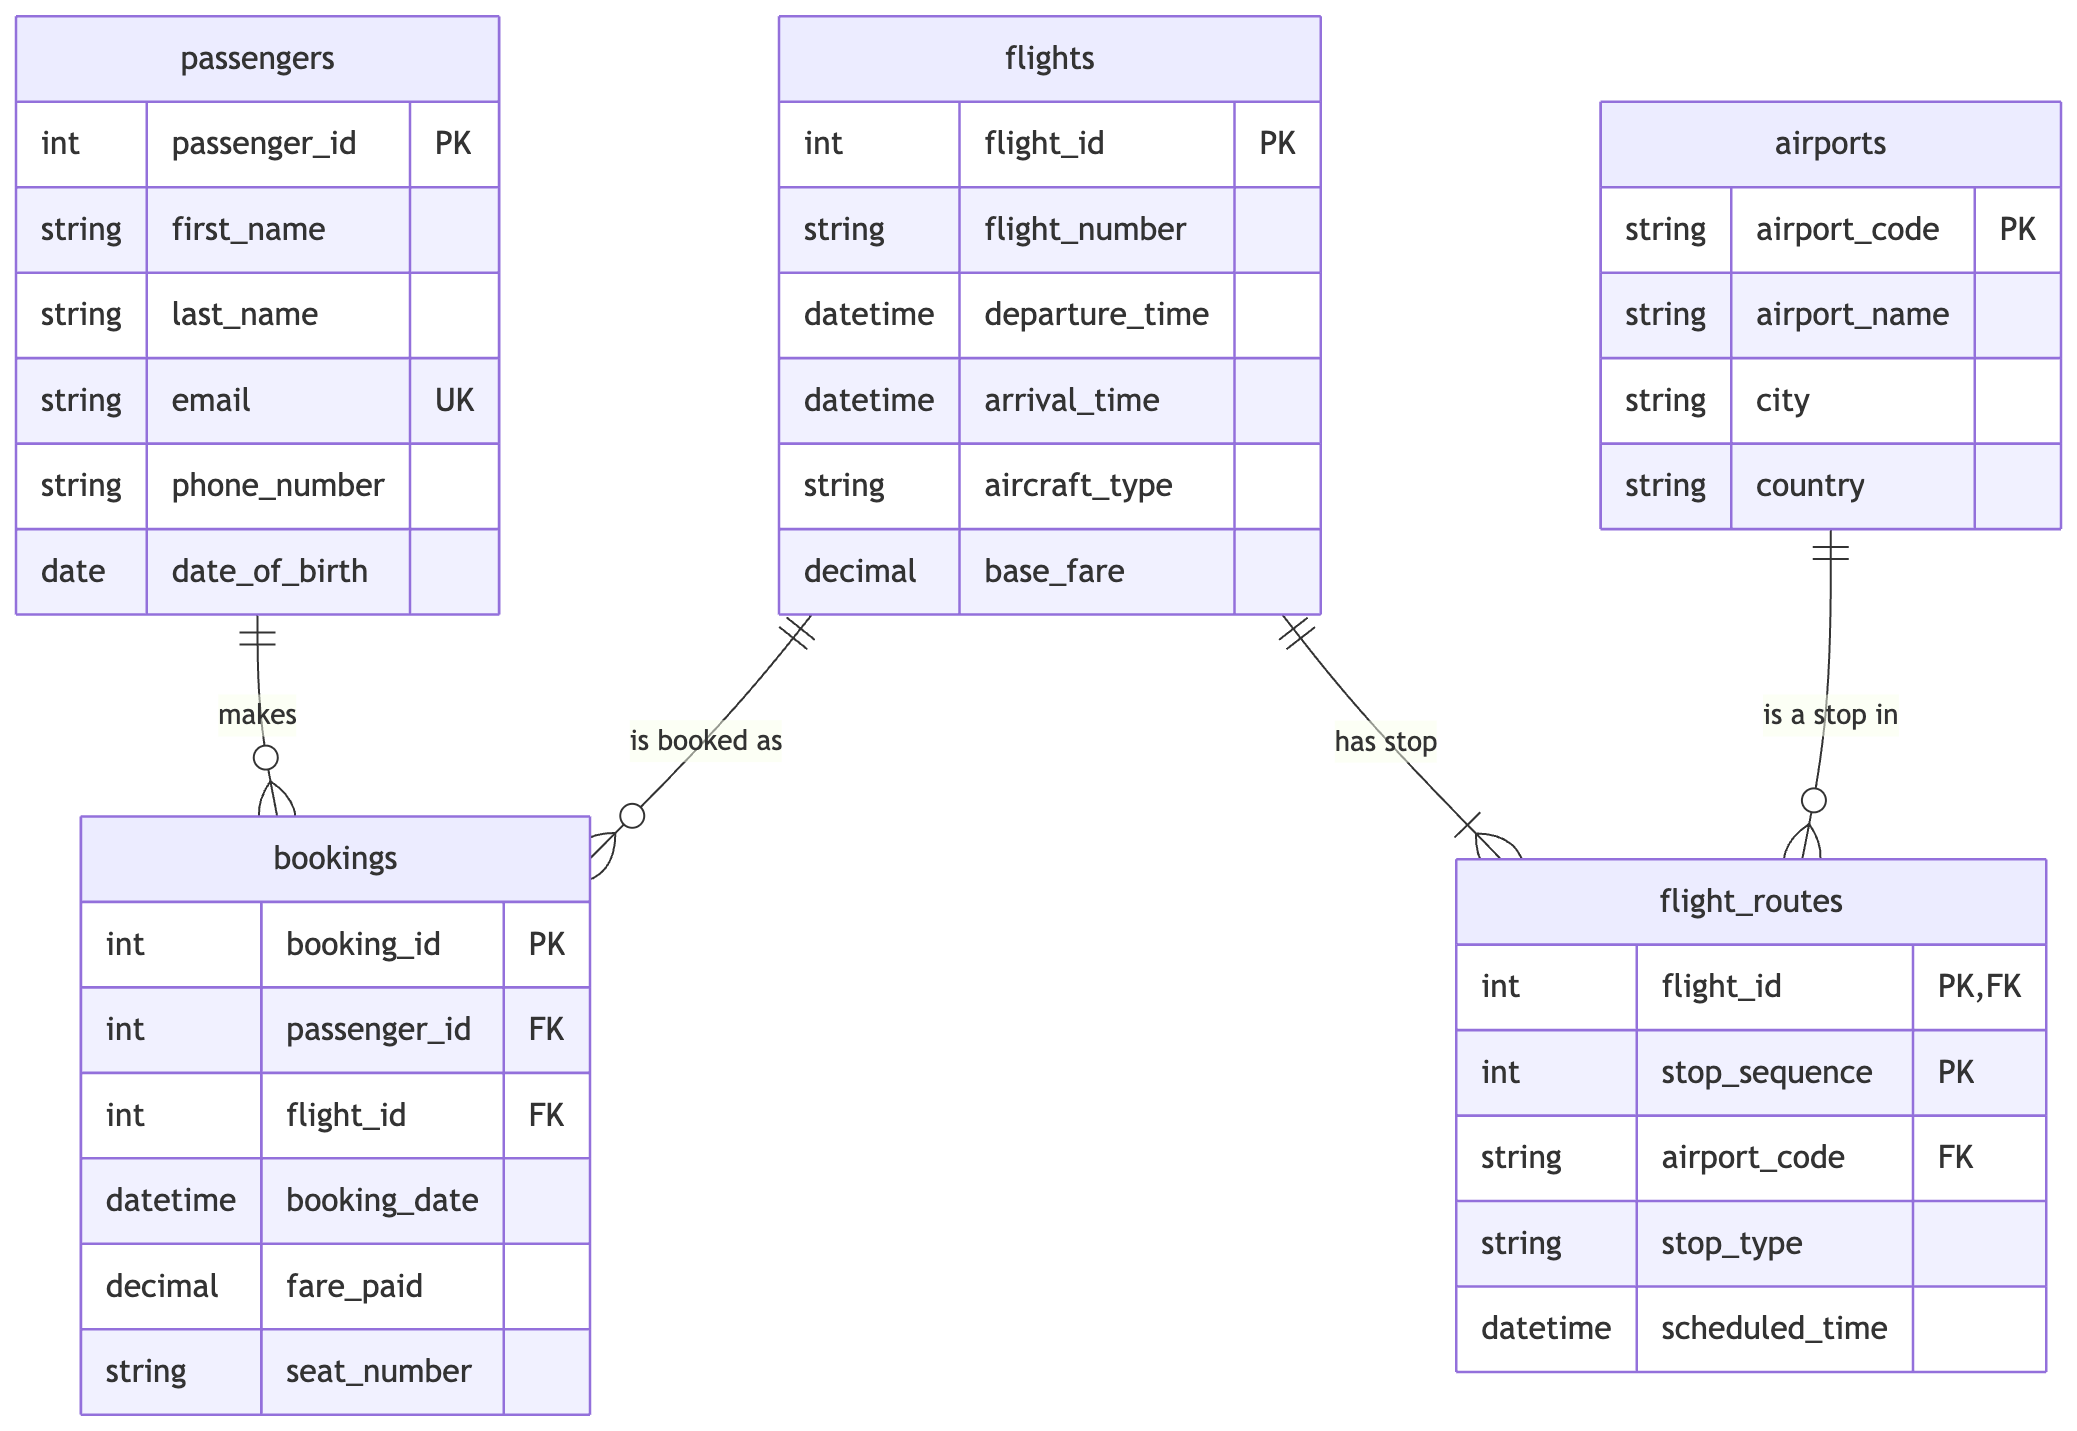
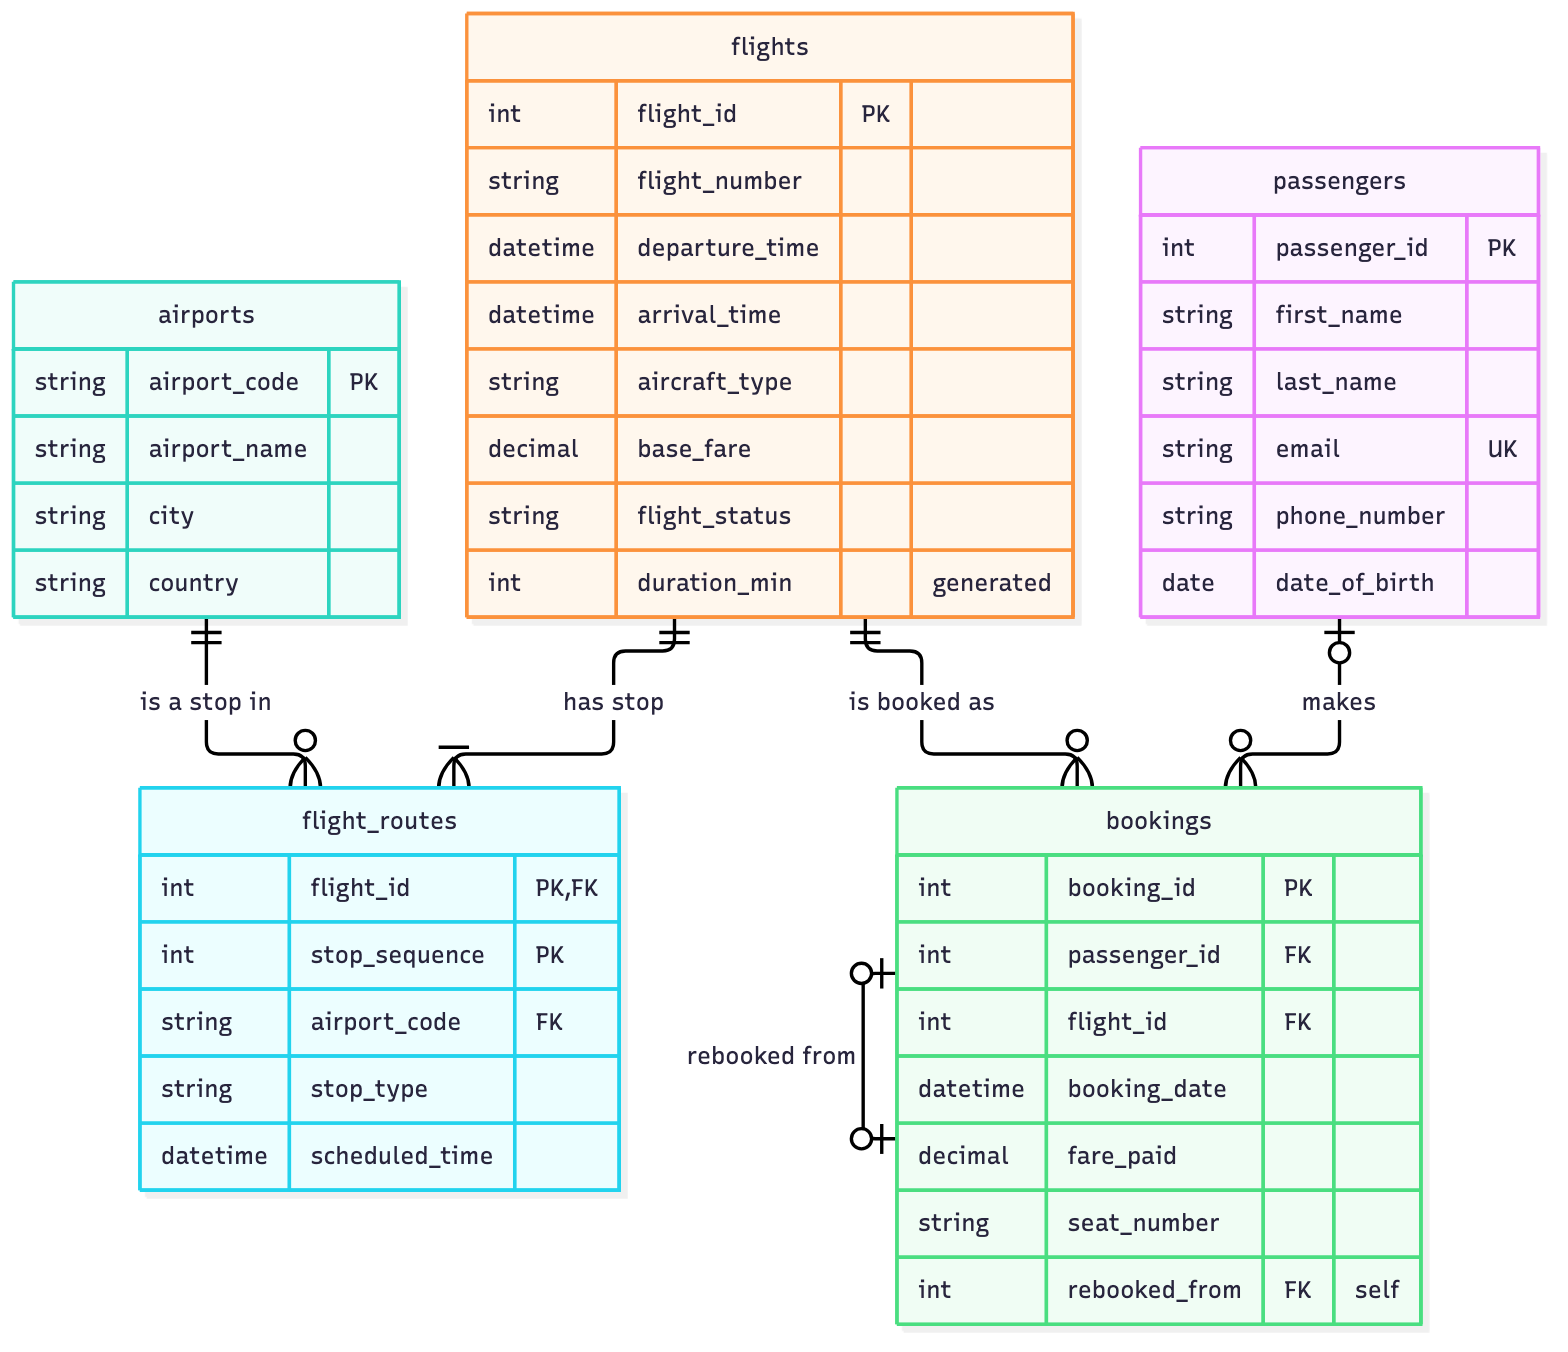
Unit 2: DDL schema, constraint analysis, updated ERD, screenshots
- schema/schema.sql: full PostgreSQL DDL with reset block, named constraints,
  recursive FK (bookings.rebooked_from) and composite PK on flight_routes
- analysis/unit2.md: FK/ON DELETE table and CHECK constraint narrative
- schema/erd.mmd + erd.png: ERD source and updated diagram
- README: Schema section and run instructions

diff --git a/analysis/unit2.md b/analysis/unit2.md
@@ -1,0 +1,66 @@
+# Unit 2 Analysis — From ERD to DDL
+
+The complete schema is in [`schema/schema.sql`](../schema/schema.sql). It runs top to bottom on an empty PostgreSQL 14+ database, and it runs a second time without manual cleanup because it opens with a reset block that drops the tables in reverse creation order.
+
+## Creation Order
+
+| # | Table | References | Why it sits here |
+|---|---|---|---|
+| 1 | `passengers` | — | No outgoing foreign keys. |
+| 2 | `airports` | — | No outgoing foreign keys. |
+| 3 | `flights` | — | No outgoing foreign keys, but both remaining tables point at it. |
+| 4 | `flight_routes` | `flights`, `airports` | Both parents now exist. |
+| 5 | `bookings` | `passengers`, `flights`, `bookings` | Last, because it depends on two parents; its self-reference needs nothing that isn't created in the same statement. |
+
+## Foreign Key Constraints
+
+| Foreign key | ON DELETE | Reason |
+|---|---|---|
+| `bookings.passenger_id → passengers.passenger_id` | SET NULL | Honors account deletion while keeping the booking and its `fare_paid` in the revenue history. |
+| `bookings.flight_id → flights.flight_id` | RESTRICT | A flight with bookings carries revenue and seat history, so it must be cancelled via `flight_status`, not deleted. |
+| `bookings.rebooked_from → bookings.booking_id` | SET NULL | Purging an old, replaced booking must never destroy or block the live booking that replaced it. |
+| `flight_routes.flight_id → flights.flight_id` | CASCADE | A route stop has no meaning without its flight. |
+| `flight_routes.airport_code → airports.airport_code` | RESTRICT | Airports are catalog data that active routes depend on. |
+
+### What each choice governs
+
+**Passenger deletion — `bookings.passenger_id`, SET NULL.** The real event is a customer closing their account and asking for their personal data to be removed. When that `passengers` row is deleted, every booking they made stays in place with `passenger_id` set to `NULL`: the flight, the date, the seat, and the fare survive. The people affected are the airline's finance and analytics teams, whose revenue-per-flight and load-factor figures stay correct, and the passenger, whose identifying record is actually gone. Under `CASCADE`, closing one account would silently delete real, paid-for bookings and reduce reported revenue for past flights. Under `RESTRICT`, the deletion would be refused for as long as any booking existed, which for a regular traveller means forever, so the platform could never honor the request. The cost of my choice is that anonymized bookings can no longer be traced to a person, which is why `bookings.passenger_id` is the one nullable foreign key in the schema.
+
+**Flight deletion — `bookings.flight_id`, RESTRICT.** The real event is an operations user trying to remove a flight, most likely because it was cancelled. On this platform a cancellation is recorded by setting `flights.flight_status = 'cancelled'`, not by deleting the row. `RESTRICT` makes that distinction enforceable: a flight with bookings cannot be deleted, so the passengers who need refunds or rebooking, and the reports that count cancelled flights, still have a row to point at. Under `CASCADE`, deleting the flight would erase every booking on it, leaving passengers who paid with no record of their ticket. Under `SET NULL`, the column is `NOT NULL`, and even if it weren't, a booking with no flight is meaningless. A flight with **no** bookings (a duplicate or a data-entry mistake) can still be deleted.
+
+**Booking purge — `bookings.rebooked_from`, SET NULL.** This is the recursive foreign key. The real event is a passenger changing flights: the airline issues a new booking whose `rebooked_from` points at the booking it replaced, which creates a change history. If the old booking is later deleted (for example, in a data-retention purge), the new booking is a valid, paid ticket and must survive, so its link simply becomes `NULL`. Under `CASCADE`, purging an old booking would delete the passenger's current ticket. Under `RESTRICT`, no replaced booking could ever be purged. I placed this key on `bookings` rather than on `passengers` (as a referral link) because rebooking is an event the airline actually handles every day and it relates booking to booking. `uq_bookings_rebooked_from` also ensures a booking can be replaced only once, so the history is a single chain rather than a tree.
+
+**Flight deletion — `flight_routes.flight_id`, CASCADE.** The event is the same flight deletion as above, but from the route's side. Because of the RESTRICT on `bookings`, this cascade only ever runs for a flight nobody booked, such as a duplicate entry. Its stops (origin, layovers, destination) describe nothing once the flight is gone, so they are removed with it. Under `RESTRICT`, anyone cleaning up a mistaken flight would first have to delete each of its stops by hand. Under `SET NULL`, `flight_id` is part of the primary key and cannot be null.
+
+**Airport deletion — `flight_routes.airport_code`, RESTRICT.** The event is someone removing an airport from the catalog, perhaps because it closed. `RESTRICT` blocks the delete while any flight still stops there. The affected parties are passengers and schedulers, whose itineraries would otherwise lose a stop. Under `CASCADE`, deleting one airport would silently remove a stop from the middle of every multi-leg flight through it, turning JFK → ORD → LAX into JFK → LAX with no error.
+
+## CHECK Constraints
+
+| Constraint | Invalid state it makes unstorable | How that state could otherwise arise |
+|---|---|---|
+| `chk_flights_arrival_after_departure` | A flight arriving at or before its departure. | Swapped columns in an import script, or local times entered instead of UTC. A westbound flight such as Tokyo 17:00 → Los Angeles 10:00 local looks like it arrives before it leaves. This check is also why the schema stores all times in UTC. |
+| `chk_flights_base_fare_nonneg` | A negative base fare. | A discount applied twice, or a sign error when a pricing tool writes an adjustment. |
+| `chk_flights_status` | A status outside `scheduled / delayed / cancelled / completed`. | Free-text entry: `'Cancelled'`, `'canceled'`, and `'CXL'` would each be counted as a different state, and a query for `= 'cancelled'` would miss them. |
+| `chk_airports_code_format` | An airport code that isn't three uppercase letters. | Typing `jfk` or the four-letter ICAO code `KJFK`. The lowercase version would then fail to match `JFK` in joins. |
+| `chk_flight_routes_stop_sequence_positive` | A stop numbered 0 or negative. | Code that counts from 0 while the rest of the platform counts from 1, which would make "first stop" queries (`stop_sequence = 1`) return the second stop. |
+| `chk_flight_routes_stop_type` | A stop type outside `origin / layover / destination`. | Inconsistent spelling (`'stopover'`, `'Layover'`), which would break queries that find where a flight starts or ends. |
+| `chk_bookings_fare_paid_nonneg` | A negative amount paid. | Recording a refund as a negative booking instead of as its own transaction, which would silently reduce revenue totals. |
+| `chk_bookings_seat_format` | A seat that isn't 1–3 digits followed by a row letter A–K (e.g. `12C`). | Free-text input such as `'window'` or `'12 c'`. That would also defeat `uq_bookings_flight_seat`, because `'12C'` and `'12 c'` would be treated as different seats. |
+| `chk_bookings_no_self_rebook` | A booking listed as rebooked from itself. | A bug that copies `booking_id` into `rebooked_from`. That creates a one-row loop, so any query walking the rebooking chain would never terminate. `IS DISTINCT FROM` is used so the ordinary case (`rebooked_from` is `NULL`) passes. |
+| `chk_passengers_email_format` | An email without the basic `name@domain.tld` shape. | A typo at signup or a phone number entered in the email field. That leaves the passenger unreachable for booking confirmations, and the value still occupies the `UNIQUE` slot. |
+
+## Derived Value: `flights.duration_min`
+
+I chose to **store** flight duration as `GENERATED ALWAYS AS (...) STORED` rather than compute it at query time. Duration is needed often (average duration per route, delay analysis), and a generated column cannot fall out of step with `departure_time` and `arrival_time`, because PostgreSQL recalculates it on every write and rejects any attempt to set it directly. This depends on the UTC convention: if the two timestamps were local times in different time zones, the subtraction would produce a wrong duration.
+
+## Changes from the Unit 1 Design
+
+Implementation forced or prompted the following changes. The ERD (`schema/erd.png`, source `schema/erd.mmd`) has been updated to match.
+
+1. **Added `bookings.rebooked_from` (recursive FK).** The Unit 1 design had no self-referencing relationship. Rebooking is the natural one in this domain.
+2. **Added `flights.flight_status`.** Unit 1 argued that a cancelled flight "should be represented as a status change on the `flights` row", but there was no column for it. Without one, the RESTRICT on `bookings.flight_id` would leave no way to record a cancellation.
+3. **Added `flights.duration_min`** as a stored generated column (see above).
+4. **Passenger → booking cardinality changed from exactly one to zero-or-one.** Unit 1 already made `bookings.passenger_id` nullable for SET NULL, but the ERD still drew the relationship as mandatory. The diagram now matches the constraint.
+5. **Types mapped to PostgreSQL:** `SERIAL` → `INTEGER GENERATED ALWAYS AS IDENTITY`, `DECIMAL` → `NUMERIC(10,2)`. Some lengths were narrowed to real limits: `email` 254, `flight_number` 7, `seat_number` 4, `stop_type` 11, `country` 60.
+6. **New constraints:** `uq_flights_number_departure` (the same flight number can't depart twice at the same time), `uq_bookings_flight_seat` (no seat sold twice on one flight), `uq_bookings_rebooked_from`, and the format/list CHECKs in the table above.
+7. **Junction key.** `flight_routes` resolves the M:N between flights and airports, but unlike the textbook junction its primary key is `(flight_id, stop_sequence)` rather than the pair of foreign keys. A row means "the nth stop of this flight", and the order of stops is the information the table exists to hold.

diff --git a/README.md b/README.md
@@ -32,9 +32,29 @@ The full entity-relationship diagram below shows how the five relations connect.
 
 ![Airline Booking ERD](schema/erd.png)
 
+## Schema
+
+The full DDL is in [`schema/schema.sql`](schema/schema.sql); the reasoning behind each constraint is in [`analysis/unit2.md`](analysis/unit2.md).
+
+| # | Table | Role | Key | References |
+|---|---|---|---|---|
+| 1 | `passengers` | Actor | `passenger_id` (identity) | — |
+| 2 | `airports` | Catalog | `airport_code` (natural IATA code) | — |
+| 3 | `flights` | Producer | `flight_id` (identity) | — |
+| 4 | `flight_routes` | Junction | `(flight_id, stop_sequence)` composite | `flights`, `airports` |
+| 5 | `bookings` | Event | `booking_id` (identity) | `passengers`, `flights`, `bookings` |
+
+Design decisions worth noticing:
+
+- **Recursive foreign key on `bookings.rebooked_from`.** When a passenger changes flights, the new booking points at the one it replaced, forming a change history.
+- **Composite key on the junction.** `flight_routes` is keyed by `(flight_id, stop_sequence)`, not by the two foreign keys, because the order of stops is what the table records.
+- **Deletes preserve history.** Deleting a passenger anonymizes their bookings (`SET NULL`) rather than erasing revenue; flights with bookings and airports with routes cannot be deleted (`RESTRICT`); a cancelled flight is recorded with `flight_status`.
+- **All timestamps are UTC**, which keeps the `arrival_time > departure_time` check valid across time zones and lets `duration_min` be a stored generated column.
+- **Every constraint is named** (`pk_`, `fk_`, `uq_`, `chk_`), so errors point directly at the rule that was broken.
+
 ## Project Status
 
-This project has completed **Unit 1: modeling and planning**. The five relation schemas, the entity-relationship diagram, the integrity constraints, and the Unit 1 written analysis have all been completed and are linked in the repository structure below. The SQL implementation, queries, and further analysis will be added in later units.
+This project has completed **Unit 2: implementation**. Unit 1 produced the relation schemas, ERD, integrity constraints, and written analysis. Unit 2 translated them into a working PostgreSQL schema (`schema/schema.sql`), updated the ERD where implementation changed the design, and documented every foreign key and CHECK decision in `analysis/unit2.md`. Queries and further analysis will be added in later units.
 
 ## Planned Repository Structure
 
@@ -42,6 +62,7 @@ This project has completed **Unit 1: modeling and planning**. The five relation 
 .
 ├── README.md
 ├── schema/
+│   ├── schema.sql
 │   ├── schema-definition.md
 │   ├── constraints.md
 │   ├── erd.png
@@ -52,7 +73,8 @@ This project has completed **Unit 1: modeling and planning**. The five relation 
 │   ├── unit5/
 │   └── unit6/
 ├── analysis/
-│   └── unit1.md
+│   ├── unit1.md
+│   └── unit2.md
 └── screenshots/
 ```
 
@@ -64,7 +86,15 @@ This project has completed **Unit 1: modeling and planning**. The five relation 
 
 ## How to Run the Project
 
-The database setup instructions will be added after the schema is created in a later unit. Before running future SQL files, users will need PostgreSQL 14 or later and access to a PostgreSQL database.
+Requires PostgreSQL 14 or later. Create an empty database, then run the schema script from the repository root:
+
+```bash
+createdb airline_booking
+psql -d airline_booking -v ON_ERROR_STOP=1 -f schema/schema.sql
+psql -d airline_booking -c '\dt'
+```
+
+The script starts with a reset block, so it can be re-run at any time without manual cleanup.
 
 ## Query Catalogue
 
